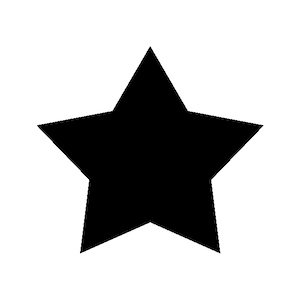
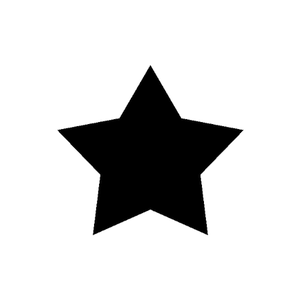
edited shape sizes, added 2nd half shape implementation

Changed region(s): [[0.12, 0.15, 0.87, 0.84]]

diff --git a/online/exec_expe.js b/online/exec_expe.js
@@ -11,7 +11,7 @@ function exec_expe(reward_csv) {
           return '<img src="img/shape_blank.png"/><img src="img/shape_spacer.png" /><img src="' + stims[1]  + '" />';
         }
       },
-      trial_duration: duration_fn(debugFlag,500,100),
+      trial_duration: duration_fn(debugFlag,500,10000),
       choices: jsPsych.NO_KEYS
     };
     return chosen_trialstim_var;
@@ -56,7 +56,7 @@ function exec_expe(reward_csv) {
           if (longDurationFlag) {
             return 1250;
           } else {
-            return 200;
+            return 100;
           }
         }
         else {
@@ -86,10 +86,10 @@ function exec_expe(reward_csv) {
         }
         return stim_text;
       },
-      minimum_duration: duration_fn(debugFlag,1000,200),
+      minimum_duration: duration_fn(debugFlag,1000,400),
       choices: jsPsych.NO_KEYS,
       fadein_duration: duration_fn(debugFlag,2000,100),
-      fadeout_duration: duration_fn(debugFlag,2000,100),
+      fadeout_duration: duration_fn(debugFlag,200,100),
       trial_duration: duration_fn(debugFlag,1000,100),
     };
     return pre_block_label;
@@ -100,7 +100,7 @@ function exec_expe(reward_csv) {
       stimulus: function () {
         let igame = isesh + 1;
         return 'End of Game ' + igame +
-        '<br><br><p style = "text-align: center; font-size: 28px; font-weight: bold">Press spacebar to continue.</p>';
+        '<br><br><p style = "text-align: center; font-size: 28px; font-weight: bold">Press spacebar to continue to the next game.</p>';
       },
       choices: [' ']
     };
@@ -116,6 +116,11 @@ function exec_expe(reward_csv) {
     shapes.push(imgStr);
   }
   shapes.push('img/shape_blank.png'); // to replace unchosen shape
+
+  // randomize the shapes to be presented
+  var shape_pairs_randomized1 = jsPsych.randomization.shuffle([...Array(10).keys()]);
+  var shape_pairs_randomized2 = jsPsych.randomization.shuffle([...Array(10).keys()]);
+  shape_pairs_randomized2 = shape_pairs_randomized2.map(x => x+10);
 
   /* Preload .PNG files to be used as stimuli */
   var preload = {
@@ -146,13 +151,11 @@ function exec_expe(reward_csv) {
       return stim;
     },
     choices: [' '],
-    fadein_duration: duration_fn(debugFlag,2000,200),
-    fadeout_duration: duration_fn(debugFlag,1000,200),
-    individual_durations: function () {
-      var dura = {
-        durations: [1000,100]
-      };
-      return dura;
+    fadein_duration: duration_fn(debugFlag,2000,100),
+    fadeout_duration: duration_fn(debugFlag,200,100),
+    individual_durations: function() {
+      var dura_arr = [1500,200];
+      return multiduration_fn(debugFlag,dura_arr,100);
     }
   };
   timeline.push(welcome_block);
@@ -178,9 +181,9 @@ function exec_expe(reward_csv) {
         return stim;
       },
     choices: [' '],
-    fadein_duration: duration_fn(debugFlag,1000,200),
-    fadeout_duration: duration_fn(debugFlag,1000,200),
-    minimum_duration: duration_fn(debugFlag,1000,200),
+    fadein_duration: duration_fn(debugFlag,1000,100),
+    fadeout_duration: duration_fn(debugFlag,200,100),
+    minimum_duration: duration_fn(debugFlag,1000,100),
   };
   timeline.push(instructions_keypress);
 
@@ -212,13 +215,13 @@ function exec_expe(reward_csv) {
       return stim;
     },
     choices: [' '],
-    fadein_duration: duration_fn(debugFlag,1000,200),
-    fadeout_duration: duration_fn(debugFlag,1000,200),
-    minimum_duration: duration_fn(debugFlag,2000,200),
+    fadein_duration: duration_fn(debugFlag,1000,100),
+    fadeout_duration: duration_fn(debugFlag,200,100),
+    minimum_duration: duration_fn(debugFlag,2000,100),
   };
   timeline.push(fixation_fn(debugFlag),example_trial,chosen_trialstim_fn(stims_ab),feedback_fn(50),post_example_trial);
 
-  var n_sessions = 6; //debug 6 in final
+  var n_sessions = 6; // hard-coded
   var choice_opts = ['f','j']; // set of available keys to choices
   var cond_types  = ['REF','VOL','UNP'];
 
@@ -253,7 +256,7 @@ function exec_expe(reward_csv) {
 
     let cond_type = cond_types[isesh];
     let game_label;
-    var n_trials  = 5; //rew_corr[isesh].length; // number of trials //debug
+    var n_trials  = rew_corr[isesh].length; // number of trials
     var fb_vals   = rew_corr[isesh];        // feedback values for the correct option
     fb_vals       = fb_vals.map(x => Math.round(x*100));
 
@@ -288,7 +291,7 @@ function exec_expe(reward_csv) {
       type: 'html-keyboard-response-faded',
       stimulus: 'When you are ready to begin,<br><br> press <span style="font-weight:bold"> spacebar </span>',
       choices: [' '],
-      minimum_duration: duration_fn(debugFlag,1000,200),
+      minimum_duration: duration_fn(debugFlag,1000,100),
     };
     timeline.push(pre_block_ready);
 
@@ -320,8 +323,9 @@ function exec_expe(reward_csv) {
     		buttontext: "Continue"
       };
 
-      let iblk_curr   = idx_blocks[idx_blocks_half][itrl]; // block index on current trial; starts from 1 (imported from MATLAB)
-      var n_blocks = 5;
+      let iblk_curr = idx_blocks[idx_blocks_half][itrl]; // block index on current trial; starts from 1 (imported from MATLAB)
+      var n_blocks  = 5;
+
       var pre_block_label;
       if (cond_order[isesh] != 2) { // REF and UNP
         if (itrl==0 | iblk_curr != iblk_prev) {
@@ -346,8 +350,15 @@ function exec_expe(reward_csv) {
       }
       /* Local declaration of the current shape set */
       let stims;
-      if (isesh != 1) { // for REF and UNP, need to cycle through shapes
-        stims = [stimulis[stim_loc+2*(idx_blocks[idx_blocks_half][itrl]-1)], stimulis[-stim_loc+1+2*(idx_blocks[idx_blocks_half][itrl]-1)]];
+      if (cond_order[isesh] != 2) { // for REF and UNP, need to cycle through shapes
+        // the randomization was determined at the beginning of the script.
+        if (isesh < 3) {
+          stims = [stimulis[shape_pairs_randomized1[stim_loc+2*(idx_blocks[idx_blocks_half][itrl]-1)]],
+                   stimulis[shape_pairs_randomized1[-stim_loc+1+2*(idx_blocks[idx_blocks_half][itrl]-1)]]];
+        } else {
+          stims = [stimulis[shape_pairs_randomized2[stim_loc+2*(idx_blocks[idx_blocks_half][itrl]-1)]],
+                   stimulis[shape_pairs_randomized2[-stim_loc+1+2*(idx_blocks[idx_blocks_half][itrl]-1)]]];
+        }
       }
       else { // for VOL, maintain the same shape set for entire session
         stims = [stimulis[stim_loc], stimulis[-stim_loc+1]];
@@ -413,7 +424,7 @@ function exec_expe(reward_csv) {
         type: 'html-keyboard-response',
         stimulus: itrl+1,
         choices: jsPsych.NO_KEYS,
-        trial_duration: 100
+        trial_duration: 10
       };
 
       var debug_data2 = { // feedback for correct/incorrect
@@ -427,7 +438,7 @@ function exec_expe(reward_csv) {
           }
         },
         choices: jsPsych.NO_KEYS,
-        trial_duration: 100
+        trial_duration: 10
       };
 
       // initial fixation stimulus push
@@ -451,16 +462,24 @@ function exec_expe(reward_csv) {
             let igame = isesh+1;
             return 'Your total score for <span style = "font-weight:bold">Game '+ igame + '</span>' +
               ' is <br><br><span style = "font-size: 32px">' + score + '/' + n_trials + '</span>' +
-              '<br><br><p style = "text-align: center; font-size: 28px; font-weight: bold">Press spacebar to continue to the next game.</p>';
+              '<br><br><p style = "text-align: center; font-size: 28px; font-weight: bold">Press spacebar to continue</p>';
           },
           choices: [' '],
           minimum_duration: duration_fn(debugFlag,null,null),
         };
-        timeline.push(end_session_stim_fn(isesh),trialstim_end_block_feedback);
+        timeline.push(trialstim_end_block_feedback,end_session_stim_fn(isesh));
       }
     } // end trial loop
   } // end block loop
 
+  // end of experiment presentation
+  var end_experiment_stim = {
+    type: 'html-keyboard-response',
+    stimulus: 'End of experiment.<br><br>Thank you for your participation!',
+    choices: [' '],
+    minimum_duration: 1000
+  };
+  timeline.push(end_experiment_stim);
 
   /* Start the experiment */
   jsPsych.init({

diff --git a/online/spit_long_instructions.js b/online/spit_long_instructions.js
@@ -44,8 +44,8 @@ switch (instr_type) {
       type: 'html-keyboard-response-sequential-faded',
       stimulus: instr_gen1,
       choices: [' '],
-      fadein_duration: duration_fn(debugFlag,1000,200),
-      fadeout_duration: duration_fn(debugFlag,1000,200),
+      fadein_duration: duration_fn(debugFlag,1000,100),
+      fadeout_duration: duration_fn(debugFlag,1000,100),
     };
     break;
 
@@ -63,8 +63,8 @@ switch (instr_type) {
       type: 'html-keyboard-response-sequential-faded',
       stimulus: instr_gen1,
       choices: [' '],
-      fadein_duration: duration_fn(debugFlag,1000,200),
-      fadeout_duration: duration_fn(debugFlag,1000,200),
+      fadein_duration: duration_fn(debugFlag,1000,100),
+      fadeout_duration: duration_fn(debugFlag,1000,100),
     };
     break;
 
@@ -83,8 +83,8 @@ switch (instr_type) {
       type: 'html-keyboard-response-sequential-faded',
       stimulus: instr_gen1,
       choices: [' '],
-      fadein_duration: duration_fn(debugFlag,1000,200),
-      fadeout_duration: duration_fn(debugFlag,1000,200),
+      fadein_duration: duration_fn(debugFlag,1000,100),
+      fadeout_duration: duration_fn(debugFlag,1000,100),
     };
     break;
 
@@ -100,8 +100,8 @@ switch (instr_type) {
       type: 'html-keyboard-response-sequential-faded',
       stimulus: instr_gen1,
       choices: [' '],
-      fadein_duration: duration_fn(debugFlag,1000,200),
-      fadeout_duration: duration_fn(debugFlag,1000,200),
+      fadein_duration: duration_fn(debugFlag,1000,100),
+      fadeout_duration: duration_fn(debugFlag,1000,100),
     };
     break;
 
@@ -110,8 +110,8 @@ switch (instr_type) {
   case 'vol_instructions':
     instr_gen1 = { stimuli: [
       'This is a game with a single long round.<br><br>',
-      'The set of symbols will remain consistent throughout the game, but the valuable deck may switch<br>' +
-      'from one to the other at random points during the game.<br><br>',
+      'Here, the set of symbols will be replaced with 2 circles colored orange and blue for the entirety of the game.<br><br>'+
+      'The difference in this game is that the valuable deck may switch from one to the other<br> at random points during the game.<br><br>',
       'As with the previous game, the points you receive will clue you in on whether the switch is happening<br>' +
       'or has already happened.<br><br>',
       '<span style = "text-style: italic"><span style ="font-weight: bold">Note:</span> '+
@@ -123,8 +123,8 @@ switch (instr_type) {
       type: 'html-keyboard-response-sequential-faded',
       stimulus: instr_gen1,
       choices: [' '],
-      fadein_duration: duration_fn(debugFlag,1000,200),
-      fadeout_duration: duration_fn(debugFlag,1000,200),
+      fadein_duration: duration_fn(debugFlag,1000,100),
+      fadeout_duration: duration_fn(debugFlag,1000,100),
     };
     break;
 
@@ -141,8 +141,8 @@ switch (instr_type) {
       type: 'html-keyboard-response-sequential-faded',
       stimulus: instr_gen1,
       choices: [' '],
-      fadein_duration: duration_fn(debugFlag,1000,200),
-      fadeout_duration: duration_fn(debugFlag,1000,200),
+      fadein_duration: duration_fn(debugFlag,1000,100),
+      fadeout_duration: duration_fn(debugFlag,1000,100),
     };
     break;
 

diff --git a/online/exec_training.js b/online/exec_training.js
@@ -46,7 +46,7 @@ function exec_training(cond_type) {
     [[66, 41, 69, 50, 56, 55, 75, 78, /*switch point*/ 52, 33, 45, 50, 49, 23, 73, 46, 44, 37, 36, 26]],
     /* UNP */
      // values which fluctuate more wildly and hit closer to the extremes
-    [[1,2,3]]
+    [[61, 62, 33, 57, 32, 46, 53, 67, 36, 68, 56, 54, 48, 41, 68, 57, 59, 72, 59, 43]]
   ];
 
   /* Load feedback for the respective training session */
@@ -87,10 +87,10 @@ function exec_training(cond_type) {
         }
         return stim_text;
       },
-      minimum_duration: duration_fn(debugFlag,1000,200),
+      minimum_duration: duration_fn(debugFlag,1000,100),
       choices: jsPsych.NO_KEYS,
-      fadein_duration: duration_fn(debugFlag,2000,200),
-      fadeout_duration: duration_fn(debugFlag,2000,200),
+      fadein_duration: duration_fn(debugFlag,2000,100),
+      fadeout_duration: duration_fn(debugFlag,2000,100),
       trial_duration: duration_fn(debugFlag,1000,100),
     };
     return pre_block_label;

diff --git a/online/multiduration_fn.js b/online/multiduration_fn.js
@@ -1,0 +1,17 @@
+function multiduration_fn(shortFlag,normalDuration,shortDuration) {
+// duration function to be used with jspsych-html-keyboard-response-sequential-faded plugin
+
+// normalDuration is an integer array of length > 1,
+//   otherwise, use duration_fn.js
+ndurs = normalDuration.length;
+
+var dura = {};
+if (shortFlag) {
+  dura.durations = [];
+  dura.durations.length = ndurs;
+  dura.durations.fill(shortDuration);
+} else {
+  dura.durations = normalDuration;
+}
+return dura;
+}

diff --git a/online/jspsych-6.3.0/plugins/jspsych-html-keyboard-response-sequential-faded.js b/online/jspsych-6.3.0/plugins/jspsych-html-keyboard-response-sequential-faded.js
@@ -138,8 +138,6 @@ jsPsych.plugins["html-keyboard-response-sequential-faded"] = (function() {
       delays.push(arrSum(ind_durations.slice(0,i+1)));
     }
 
-    console.log(delays)
-    console.log(ind_durations)
     // fade in sequentially
     $(document).ready(function() {
         $('.words').each(function (i) {

diff --git a/online/run_expe.html b/online/run_expe.html
@@ -19,6 +19,7 @@
     <script src="spit_long_instructions.js"></script>
     <script src="debriefTableCreate.js"></script>
     <script src="duration_fn.js"></script>
+    <script src="multiduration_fn.js"></script>
   </head>
   <body></body>
   <script>
